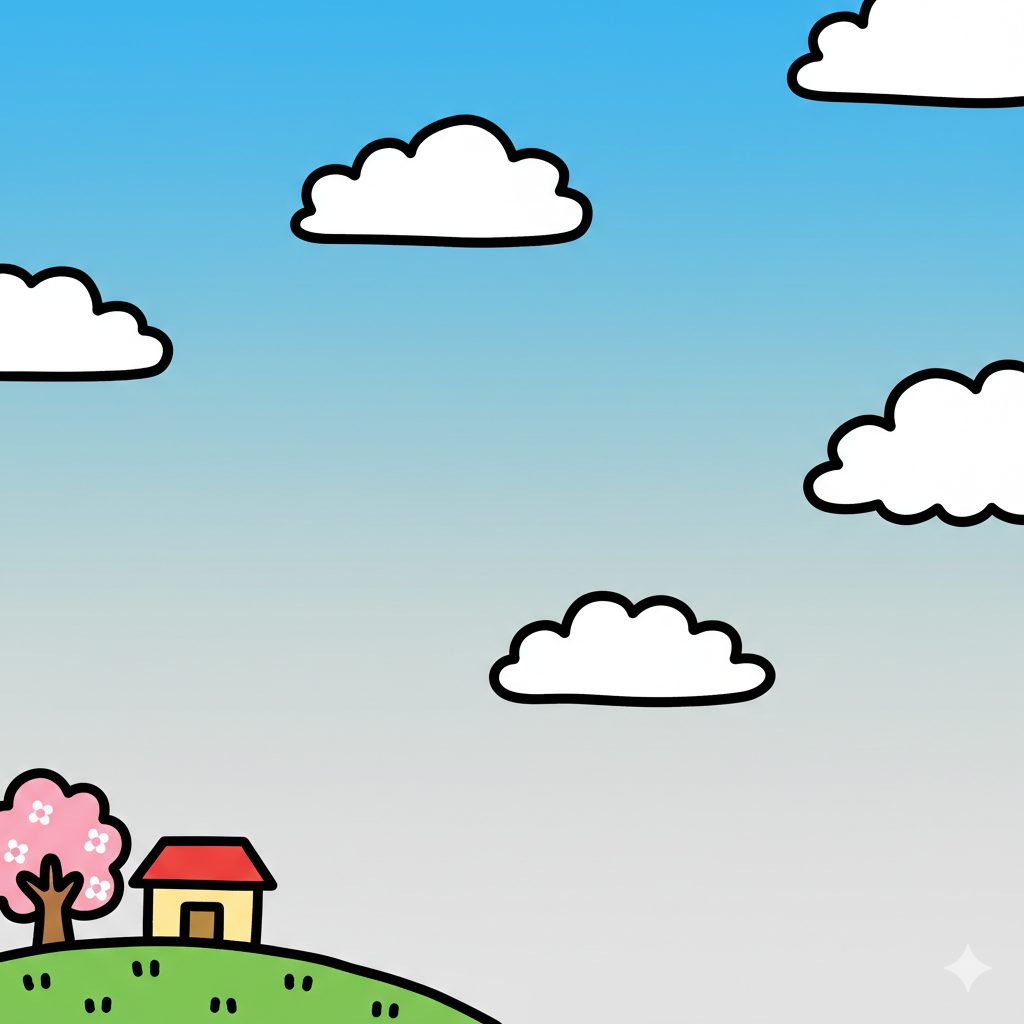
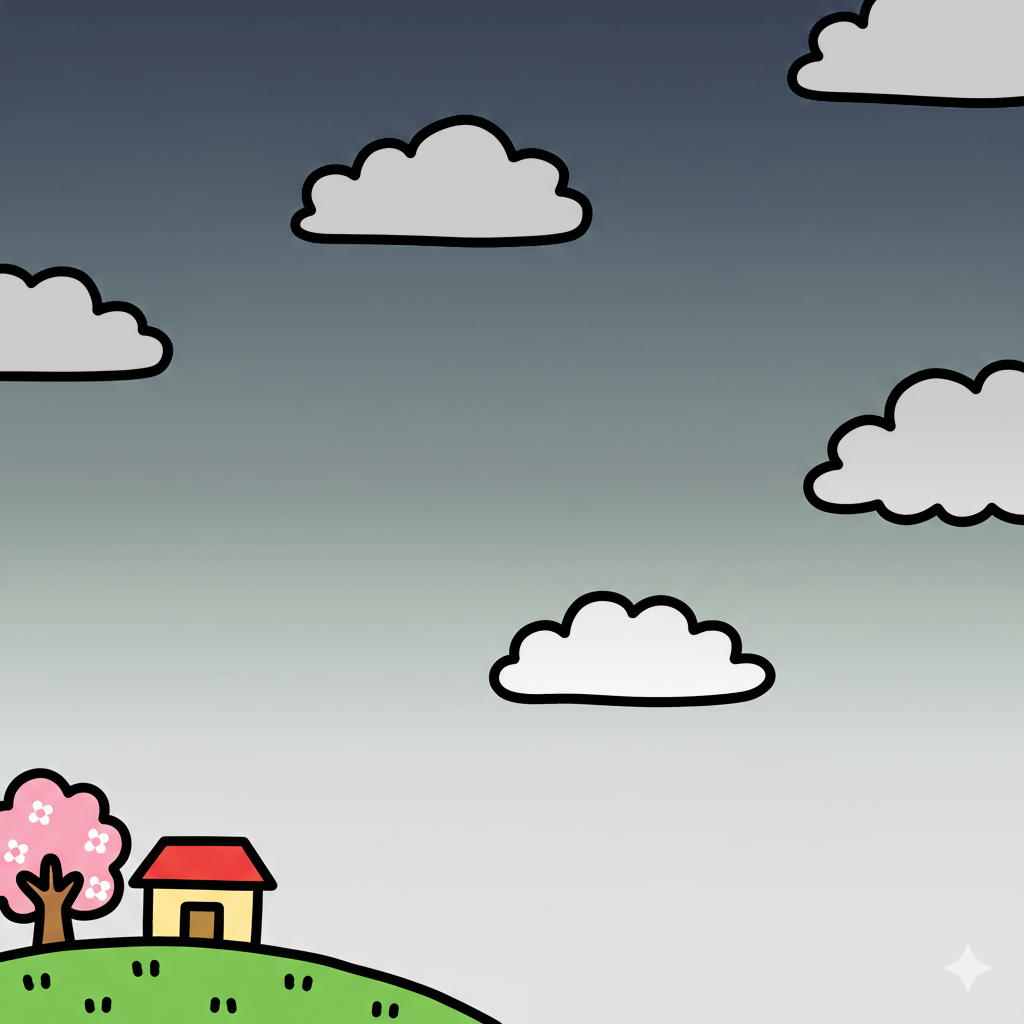
更新圖示檔案，刪除舊圖示並新增新圖示，調整網頁圖示連結及背景樣式

diff --git a/style.css b/style.css
@@ -27,46 +27,54 @@ body {
     /* 讓 body 負責動態背景圖片和顏色 */
     transition: background-color 0.8s ease-in-out, background-image 0.8s ease-in-out;
     background-size: cover; /* 確保圖片覆蓋整個背景 */
-    background-position: center; /* 圖片置中 */
     background-repeat: no-repeat; /* 圖片不重複 */
     background-attachment: fixed; /* 讓背景圖片在滾動時固定 */
+    /* 這裡不再設定 center，讓各自的 Class 來控制位置 */
 }
 
 /* ====================================
    📸 動態背景樣式 (使用圖片)
    ==================================== */
 
-/* 晴天 (Clear) */
+/* 晴天 (Clear) - 關鍵設定：右上角 */
 body.clear-sky {
     background-image: url('./weather-clear.png');
-    background-color: var(--shin-blue); /* 作為圖片載入前的備用色 */
+    background-color: var(--shin-blue); 
     color: var(--shin-outline);
+    /* 🎯 關鍵修改：右上角 */
+    background-position: top right; 
 }
 
-/* 多雲/陰天 (Clouds) */
+/* 多雲/陰天 (Clouds) - 關鍵設定：左下角 */
 body.cloudy-sky {
     background-image: url('./weather-cloudy.png');
-    background-color: var(--shin-white); /* 作為圖片載入前的備用色 */
+    background-color: var(--shin-white); 
     color: var(--shin-outline);
+    /* 🎯 關鍵修改：左下角 */
+    background-position: bottom left; 
 }
 
-/* 雨天 (Rain/Drizzle) */
+/* 雨天 (Rain/Drizzle) - 關鍵設定：左下角 */
 body.rainy-sky {
     background-image: url('./weather-rainy.png');
-    background-color: #5DADE2; /* 作為圖片載入前的備用色 */
-    color: var(--shin-white); /* 雨天文字改為白色，對比度更高 */
+    background-color: #5DADE2; 
+    color: var(--shin-white); 
+    /* 🎯 關鍵修改：左下角 */
+    background-position: bottom left; 
 }
 
-/* 雷雨 (Thunderstorm) */
+/* 雷雨 (Thunderstorm) - 關鍵設定：左下角 */
 body.thunder-sky {
     background-image: url('./weather-thunder.png');
-    background-color: #2C3E50; /* 作為圖片載入前的備用色 */
-    color: var(--shin-yellow); /* 閃電般的黃色文字 */
+    background-color: #2C3E50; 
+    color: var(--shin-yellow); 
+    /* 🎯 關鍵修改：左下角 */
+    background-position: bottom left; 
 }
 
 
 /* ====================================
-   🎨 元件風格調整 (確保區塊維持純色或半透明)
+   🎨 元件風格調整 (維持不變)
    ==================================== */
 
 /* 最外層容器，保持透明，讓 body 的背景圖片透出 */
@@ -74,7 +82,7 @@ body.thunder-sky {
     padding: 20px;
     max-width: 600px;
     margin: 0 auto;
-    background: transparent; /* 重要：保持透明，讓圖片顯示 */
+    background: transparent; 
 }
 
 /* 頂部狀態列 */
@@ -94,12 +102,12 @@ body.thunder-sky {
     background: var(--shin-yellow);
     color: var(--shin-outline);
     padding: 5px 15px;
-    border-radius: 25px; /* 更圓潤 */
+    border-radius: 25px; 
     font-weight: 900;
     font-size: 1.1rem;
-    transform: rotate(1deg); /* 讓它看起來像隨手貼上 */
-    border: 3px solid var(--shin-outline); /* 粗黑邊框 */
-    box-shadow: 4px 4px 0 var(--shin-red); /* 粗紅影 */
+    transform: rotate(1deg); 
+    border: 3px solid var(--shin-outline); 
+    box-shadow: 4px 4px 0 var(--shin-red); 
 }
 
 .update-pill {
@@ -113,15 +121,15 @@ body.thunder-sky {
 
 /* === 核心：今日焦點卡片 (Hero Card) === */
 .hero-card {
-    background: var(--shin-white); /* 純白色背景 */
+    background: var(--shin-white); 
     border-radius: 30px;
     padding: 30px 25px;
     text-align: center;
-    box-shadow: 8px 8px 0 var(--shin-outline); /* 粗線條陰影 */
-    border: 5px solid var(--shin-outline); /* 粗黑邊框 */
+    box-shadow: 8px 8px 0 var(--shin-outline); 
+    border: 5px solid var(--shin-outline); 
     margin-bottom: 30px;
     position: relative;
-    transform: rotate(-1deg); /* 整體稍微傾斜，更活潑 */
+    transform: rotate(-1deg); 
 }
 
 /* 像對話氣泡 */
@@ -148,7 +156,7 @@ body.thunder-sky {
 }
 
 .hero-icon {
-    font-size: 6rem; /* 放大圖示 */
+    font-size: 6rem; 
     filter: drop-shadow(0 5px 0 rgba(0, 0, 0, 0.2));
     animation: bounce 3s infinite;
 }
@@ -173,14 +181,14 @@ body.thunder-sky {
     gap: 15px;
     margin-top: 20px;
     padding-top: 20px;
-    border-top: 4px dashed var(--shin-skin); /* 粗虛線分隔 */
+    border-top: 4px dashed var(--shin-skin); 
 }
 
 .advice-item {
     display: flex;
     flex-direction: column;
     align-items: center;
-    background: var(--shin-skin); /* 淺膚色背景 */
+    background: var(--shin-skin); 
     padding: 15px 10px;
     border-radius: 20px;
     border: 3px solid var(--shin-outline);
@@ -207,13 +215,13 @@ body.thunder-sky {
     margin-bottom: 15px;
     margin-left: 10px;
     font-weight: 900;
-    text-shadow: 2px 2px 0 rgba(255, 255, 255, 0.5); /* 蠟筆感文字陰影 */
+    text-shadow: 2px 2px 0 rgba(255, 255, 255, 0.5); 
 }
 
 .scroll-container {
     display: flex;
     overflow-x: auto;
-    gap: 20px; /* 加大間距 */
+    gap: 20px; 
     padding-bottom: 10px;
     scrollbar-width: none;
     -ms-overflow-style: none;
@@ -224,8 +232,8 @@ body.thunder-sky {
 }
 
 .mini-card {
-    min-width: 120px; /* 稍微縮小 */
-    background: var(--shin-white); /* 純白色背景 */
+    min-width: 120px; 
+    background: var(--shin-white); 
     border-radius: 25px;
     padding: 20px 15px;
     text-align: center;
@@ -264,7 +272,7 @@ body.thunder-sky {
     left: 0;
     right: 0;
     bottom: 0;
-    background: var(--shin-blue); /* Loading 畫面用藍色 */
+    background: var(--shin-blue); 
     display: flex;
     flex-direction: column;
     justify-content: center;

diff --git a/index.html b/index.html
@@ -5,9 +5,12 @@
     <meta charset="UTF-8">
     <meta name="viewport" content="width=device-width, initial-scale=1.0, maximum-scale=1.0, user-scalable=no">
     <title>春日部氣象站</title>
-    <link rel="icon" type="image/png" href="./icon-v22.png">
-    <link rel="apple-touch-icon" href="./icon-v22.png">
-    <link rel="apple-touch-icon" sizes="180x180" href="./icon-v22.png">
+
+    <link rel="icon" type="image/png" href="./icon.png">
+
+    <link rel="apple-touch-icon" sizes="180x180" href="./icon.png">
+    <link rel="apple-touch-icon" href="./icon.png">
+    
     <link rel="preconnect" href="https://fonts.googleapis.com">
     <link rel="preconnect" href="https://fonts.gstatic.com" crossorigin>
     <link href="https://fonts.googleapis.com/css2?family=Zen+Maru+Gothic:wght@400;700;900&display=swap"
